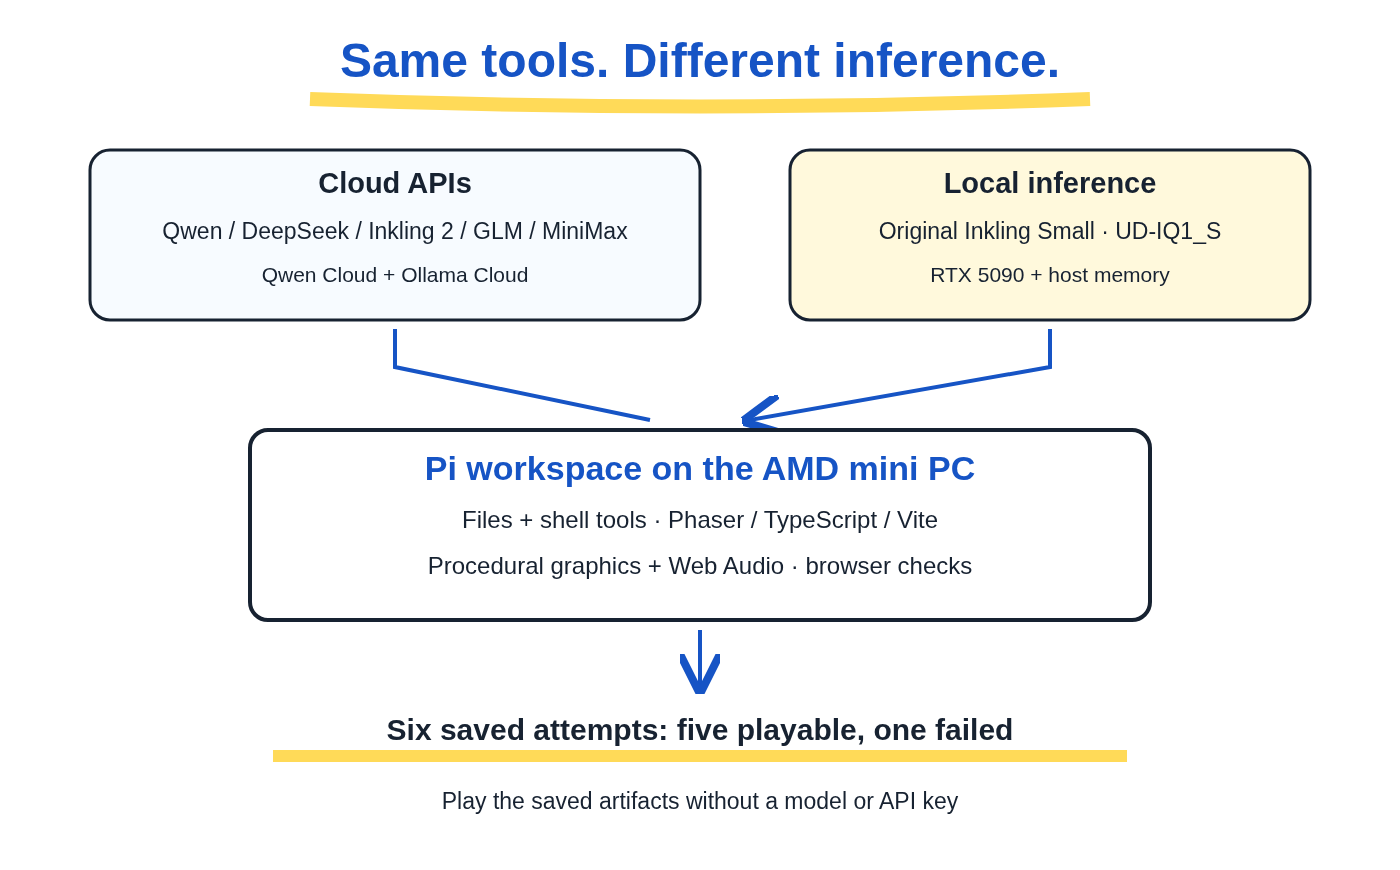
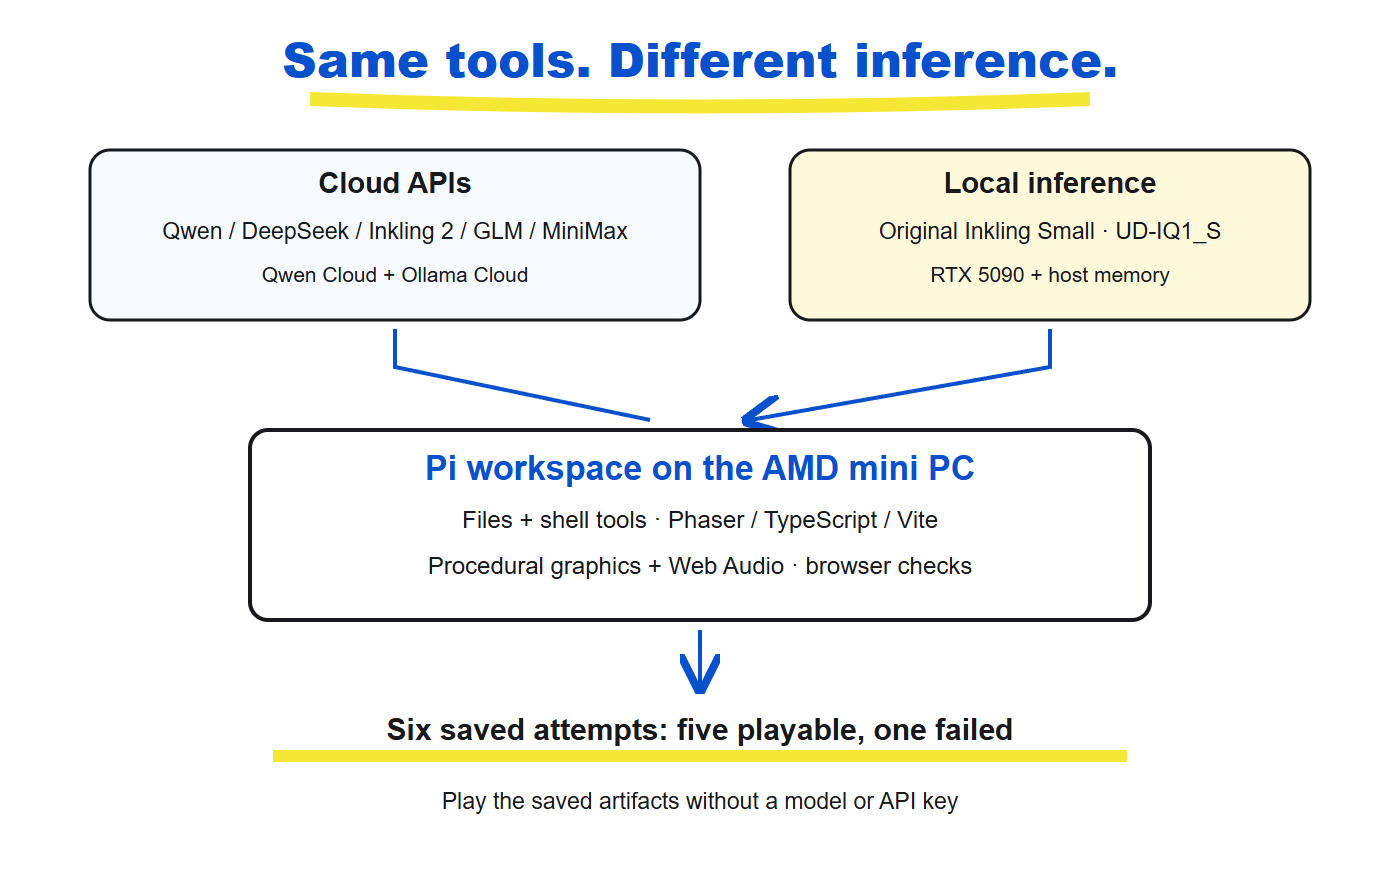
Match article palette and prepare Medium table asset

diff --git a/docs/part-2/ARTICLE_DRAFT.md b/docs/part-2/ARTICLE_DRAFT.md
@@ -87,7 +87,7 @@ Two of its own test scripts timed out; those waits remain in the total. The fixe
 
 [Play Inkling 2 Small · Ollama Cloud · Pi](https://mkhomutskyi.github.io/relay-defense-ai-comparison/part-2/?game=p2-inkling2)
 
-I used purchased Ollama Cloud credits for Inkling 2, with no included allowance. Its 73 requests cost an estimated 31 cents, calculated from logged tokens. That is not a separate provider invoice.
+Inkling 2 ran through Ollama Cloud. Its 73 requests cost an estimated 31 cents, calculated from logged tokens. That is not a separate provider invoice.
 
 ## MiniMax: the repair mattered
 
